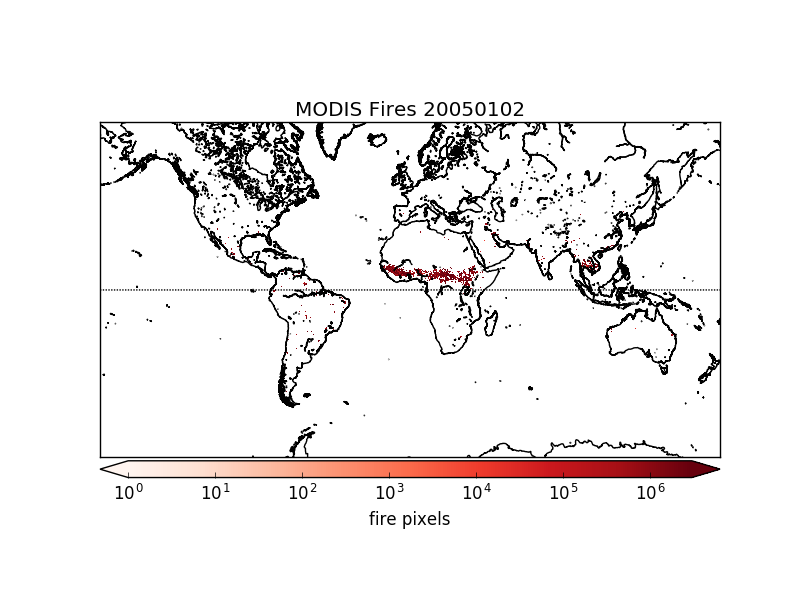
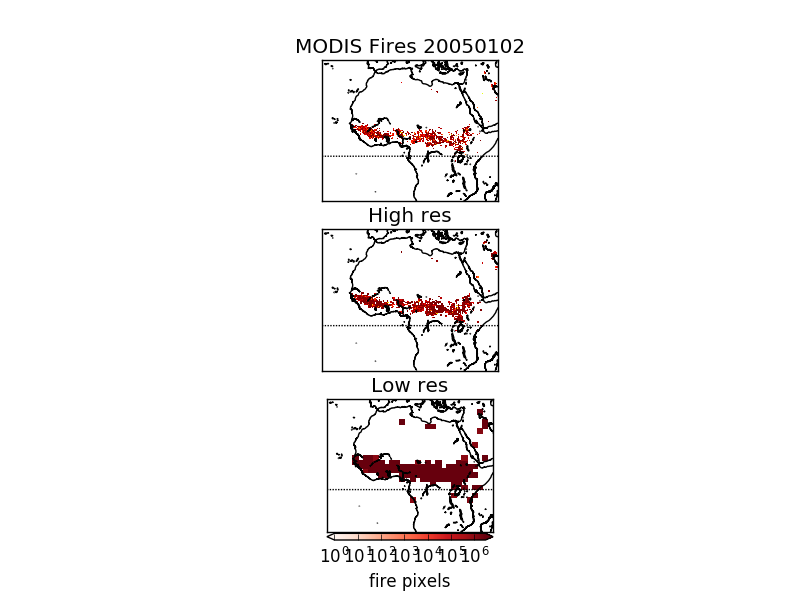
Some fixes to utility.regrid() tested on fires

Changed region(s): [[0.125, 0.06, 0.9062, 0.99], [0.125, 0.48, 0.1562, 0.54]]

diff --git a/utilities/utilities.py b/utilities/utilities.py
@@ -352,11 +352,12 @@ def ppbv_to_molecs_per_cm2(ppbv, pedges):
             out[:,x,y] = t*ppbv[:,x,y]
     return out
 
-def regrid_to_lower(data, lats, lons, newlats_e, newlons_e):
+def regrid_to_lower(data, lats, lons, newlats, newlons, func=np.nanmean):
     '''
         Regrid data to lower resolution
-        using EDGES of new grid and mids of old grid
+        using midpoints of new and old grid
     '''
+    newlats_e,newlons_e=edges_from_mids(newlats),edges_from_mids(newlons)
     ret=np.zeros([len(newlats_e)-1,len(newlons_e)-1])+np.NaN
     for i in range(len(newlats_e)-1):
         for j in range(len(newlons_e)-1):
@@ -365,42 +366,47 @@ def regrid_to_lower(data, lats, lons, newlats_e, newlons_e):
 
             tmp=data[lati,:]
             tmp=tmp[:,loni]
-            ret[i,j]=np.nanmean(tmp)
+            ret[i,j]=func(tmp)
     return ret
 
-def regrid(data,lats,lons,newlats,newlons):
+def regrid(data,lats,lons,newlats,newlons, interp='nearest', groupfunc=np.nanmean):
     '''
     Regrid a data array [lat,lon] onto [newlat,newlon]
+    When making resolution finer, need to interpolate:
+        interp = 'nearest' | 'linear' | 'cubic'
+    When making resolution lower, need to group using some function
+        groupfunc = np.nanmean by default
+
     '''
     if __VERBOSE__:
         print("utilities.regrid transforming %s to %s"%(str((len(lats),len(lons))),str((len(newlats),len(newlons)))))
         print("data input looks like %s"%str(np.shape(data)))
-    interp=None
+    newdata=None
     # if no resolution change then just throw back input
-    if len(newlats) == len(lats) and len(newlons) == len(lons):
-        if all(newlats == lats) and all(newlons == lons):
-            return data
+    oldy=lats[1]-lats[0]
+    newy=newlats[1]-newlats[0]
+    oldx=lons[1]-lons[0]
+    newx=newlons[1]-newlons[0]
+    if oldx==newx and oldy==newy:
+        return data
+    # If new resolution is strictly finer, use griddata
+    elif newx < oldx and newy < oldy:
+        # make into higher resolution
+        mlons,mlats = np.meshgrid(lons,lats)
+        mnewlons,mnewlats = np.meshgrid(newlons,newlats)
 
-    # If new lats have higher resolution
-    #elif len(newlats) > len(lats):
-    # make into higher resolution
-    mlons,mlats = np.meshgrid(lons,lats)
-    mnewlons,mnewlats = np.meshgrid(newlons,newlats)
-
-    #https://docs.scipy.org/doc/scipy/reference/interpolate.html
-    # take nearest datapoint from old grid new gridpoint value
-    interp = griddata( (mlats.ravel(), mlons.ravel()), data.ravel(),
-                      (mnewlats, mnewlons), method='nearest')
+        #https://docs.scipy.org/doc/scipy/reference/interpolate.html
+        # take nearest datapoint from old grid new gridpoint value
+        newdata = griddata( (mlats.ravel(), mlons.ravel()), data.ravel(),
+                          (mnewlats, mnewlons), method=interp)
+    # if new res is not strictly finer
+    else:
+        newdata = regrid_to_lower(data,lats,lons,newlats,newlons,func=groupfunc)
 
     # Check shape is as requested
-    assert np.shape(interp)== (len(newlats),len(newlons)), "Regridded shape new lats/lons!"
+    assert np.shape(newdata)== (len(newlats),len(newlons)), "Regridded shape new lats/lons!"
 
-    return interp
-
-#def regrid(data,lats,lons,newlats,newlons):
-#    '''
-#
-#    '''
+    return newdata
 
 def reshape_time_lat_lon_lev(data,ntimes,nlats,nlons,nlevs):
     ''' return reference to data array with time,lat,lon,lev dims '''

diff --git a/localtests.py b/localtests.py
@@ -26,7 +26,6 @@ import xbpch
 import xarray
 import pandas as pd
 
-import regrid_swaths as rs
 
 ###############
 ### Globals ###
@@ -49,29 +48,33 @@ count_b=np.mean(fires_per_area)*earth_sa*1e3
 print(count_a,count_b)
 print((count_a-count_b)/count_b)
 
+region=[-20,-30,40,50]
 f,axes=plt.subplots(3,1)
 plt.sca(axes[0])
 pp.createmap(fires,lats,lons,title='MODIS Fires 20050102',
-             clabel='fire pixels',
-             linear=False,cmapname='Reds',vmin=1,vmax=3e6)
+             colorbar=None, region=region,
+             linear=False, vmin=1,vmax=3e6)
 
-# lats lons are 1x1
+# lats lons are .1x.1 degrees
 # Try lower and higher resolution function:
 hlats,hlons,hlat_e,hlon_e = util.lat_lon_grid(latres=0.25,lonres=0.3125)
 llats,llons,llat_e,llon_e = util.lat_lon_grid(latres=2.0,lonres=2.5)
 
-hfires=util.regrid(fires,lats,lons,hlats,hlons)
-lfires=util.regrid(fires,lats,lons,llats,llons)
-
+hfires=util.regrid(fires,lats,lons,hlats,hlons,groupfunc=np.nansum)
+lfires=util.regrid(fires,lats,lons,llats,llons,groupfunc=np.nansum)
+print(np.nansum(hfires))
+print(np.nansum(lfires))
 plt.sca(axes[1])
 pp.createmap(hfires,hlats,hlons,title='High res',
-             colorbar=False,
-             linear=False, cmapname='Reds',vmin=1,vmax=3e6)
+             colorbar=False,region=region,
+             linear=False, vmin=1,vmax=3e6)
 
 plt.sca(axes[2])
-pp.createmap(lfires,llats,llons,title='Low res',
-             colorbar=None, pname='test_fires.png',
+pp.createmap(lfires,llats,llons,title='Low res', region=region,
+             clabel='fire pixels', pname='test_fires.png',
              linear=False,cmapname='Reds',vmin=1,vmax=3e6)
+
+
 #
 #pp.createmap(data['tropno2'],data['lats'],data['lons'],vmin=1e13, vmax=1e16,pname='testno2.png',
 #             title='OMNO2d for 2005, jan, 1',clabel='trop NO2 (molec/cm2)')

diff --git a/utilities/fio.py b/utilities/fio.py
@@ -236,7 +236,7 @@ def read_AAOD_interpolated(date, latres=0.25,lonres=0.3125):
     aaod,lats,lons=read_AAOD(date)
 
     newaaod=util.regrid(aaod,lats,lons,newlats,newlons)
-    #util.regrid_to_lower(fires,lats,lons,newlats_e,newlons_e)
+    #util.regrid_to_lower(fires,lats,lons,newlats,newlons)
     return newaaod,newlats,newlons
 
 
@@ -270,13 +270,10 @@ def read_MOD14A1_interpolated(date=datetime(2005,1,1), latres=0.25,lonres=0.3125
         Read firepixels/day from MOD14A1 daily gridded product
         returns fires, lats, lons
     '''
-    newlats= np.arange(-90,90, latres) + latres/2.0
-    newlons= np.arange(-180,180, lonres) + lonres/2.0
-    newlats_e=util.edges_from_mids(newlats)
-    newlons_e=util.edges_from_mids(newlons)
+    newlats,newlons,_nlate,_nlone= util.lat_lon_grid(latres=latres,lonres=lonres)
     fires,lats,lons=read_MOD14A1(date,per_km2=False)
 
-    newfires=util.regrid_to_lower(fires,lats,lons,newlats_e,newlons_e)
+    newfires=util.regrid_to_lower(fires,lats,lons,newlats,newlons,np.nansum)
     return newfires,newlats,newlons
 
 
